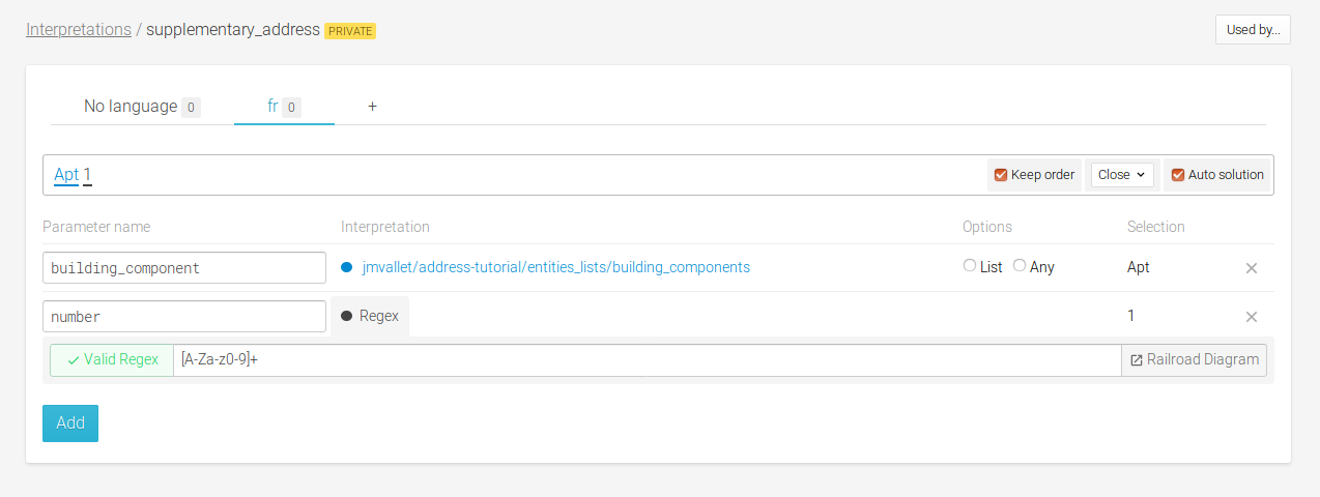
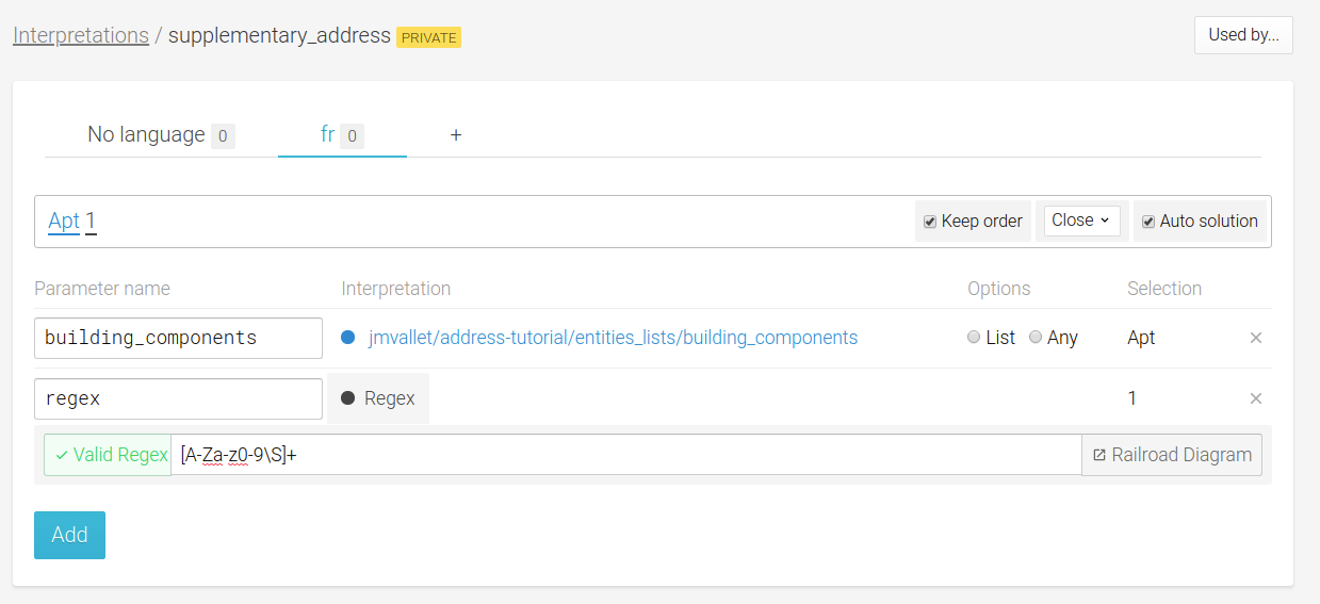
#20994 (added) Correct the regex for list tips and tricks, correct typo

diff --git a/doc/guides/tips-and-tricks/index.md b/doc/guides/tips-and-tricks/index.md
@@ -60,7 +60,7 @@ Let us first create a few components that will recognize the additional informat
 <span class="tag tag--primary">Step 2</span> Create a private interpretation `supplementary_address` to recognize the additional information in an address. Add the following expressions in the interpretation:
 * Add "Apt 1" as your first expression. 
   * Highlight "Apt" and create an alias to the `building_components` entities list you created earlier.
-  * Highlight "1" and create an alias to `Regex` type. Enter "[A-Za-z0-9]+" in the text box for regular expression.
+  * Highlight "1" and create an alias to `Regex` type. Enter "[A-Za-z0-9\S]+" in the text box for regular expression.
 
 ![first supplementary_address expressions](img/list/supplementary_address_1.png "First expression for supplementary address")
 
@@ -103,7 +103,7 @@ Your agent can now recognize addresses with multiple additional information.
 
 There are many public agents in viky.ai. These agents can be explored and tested by everyone in the platform. What if you find an agent that you would like to work with but you do not have the required access rights to it? Yes, you can create your own that has the same structure and behave the same. But it would be very tedious to do so for a complex agent.
 
-Viky.ai allows you to duplicate any agent that is visible to you. When you view an agent, you can find a `Duplicate` button at the top.
+Viky.ai allows you to duplicate any agent that is visible to you. When you view an agent, you can find a `Duplicate` button at the top of the `Overview` tab.
 
 ![duplicate_button](img/duplicate/duplicate_button.png "Duplicate button")
 
@@ -111,7 +111,7 @@ Click on the `Duplicate` button. Voila!, you have your very own agent that behav
 
 ![duplicated_agent](img/duplicate/duplicated_agent.png "You have your very own Hello agent")
 
+## Drag and drop/ Move to
 
-## Drag and drop
 
 ## Now in tests
